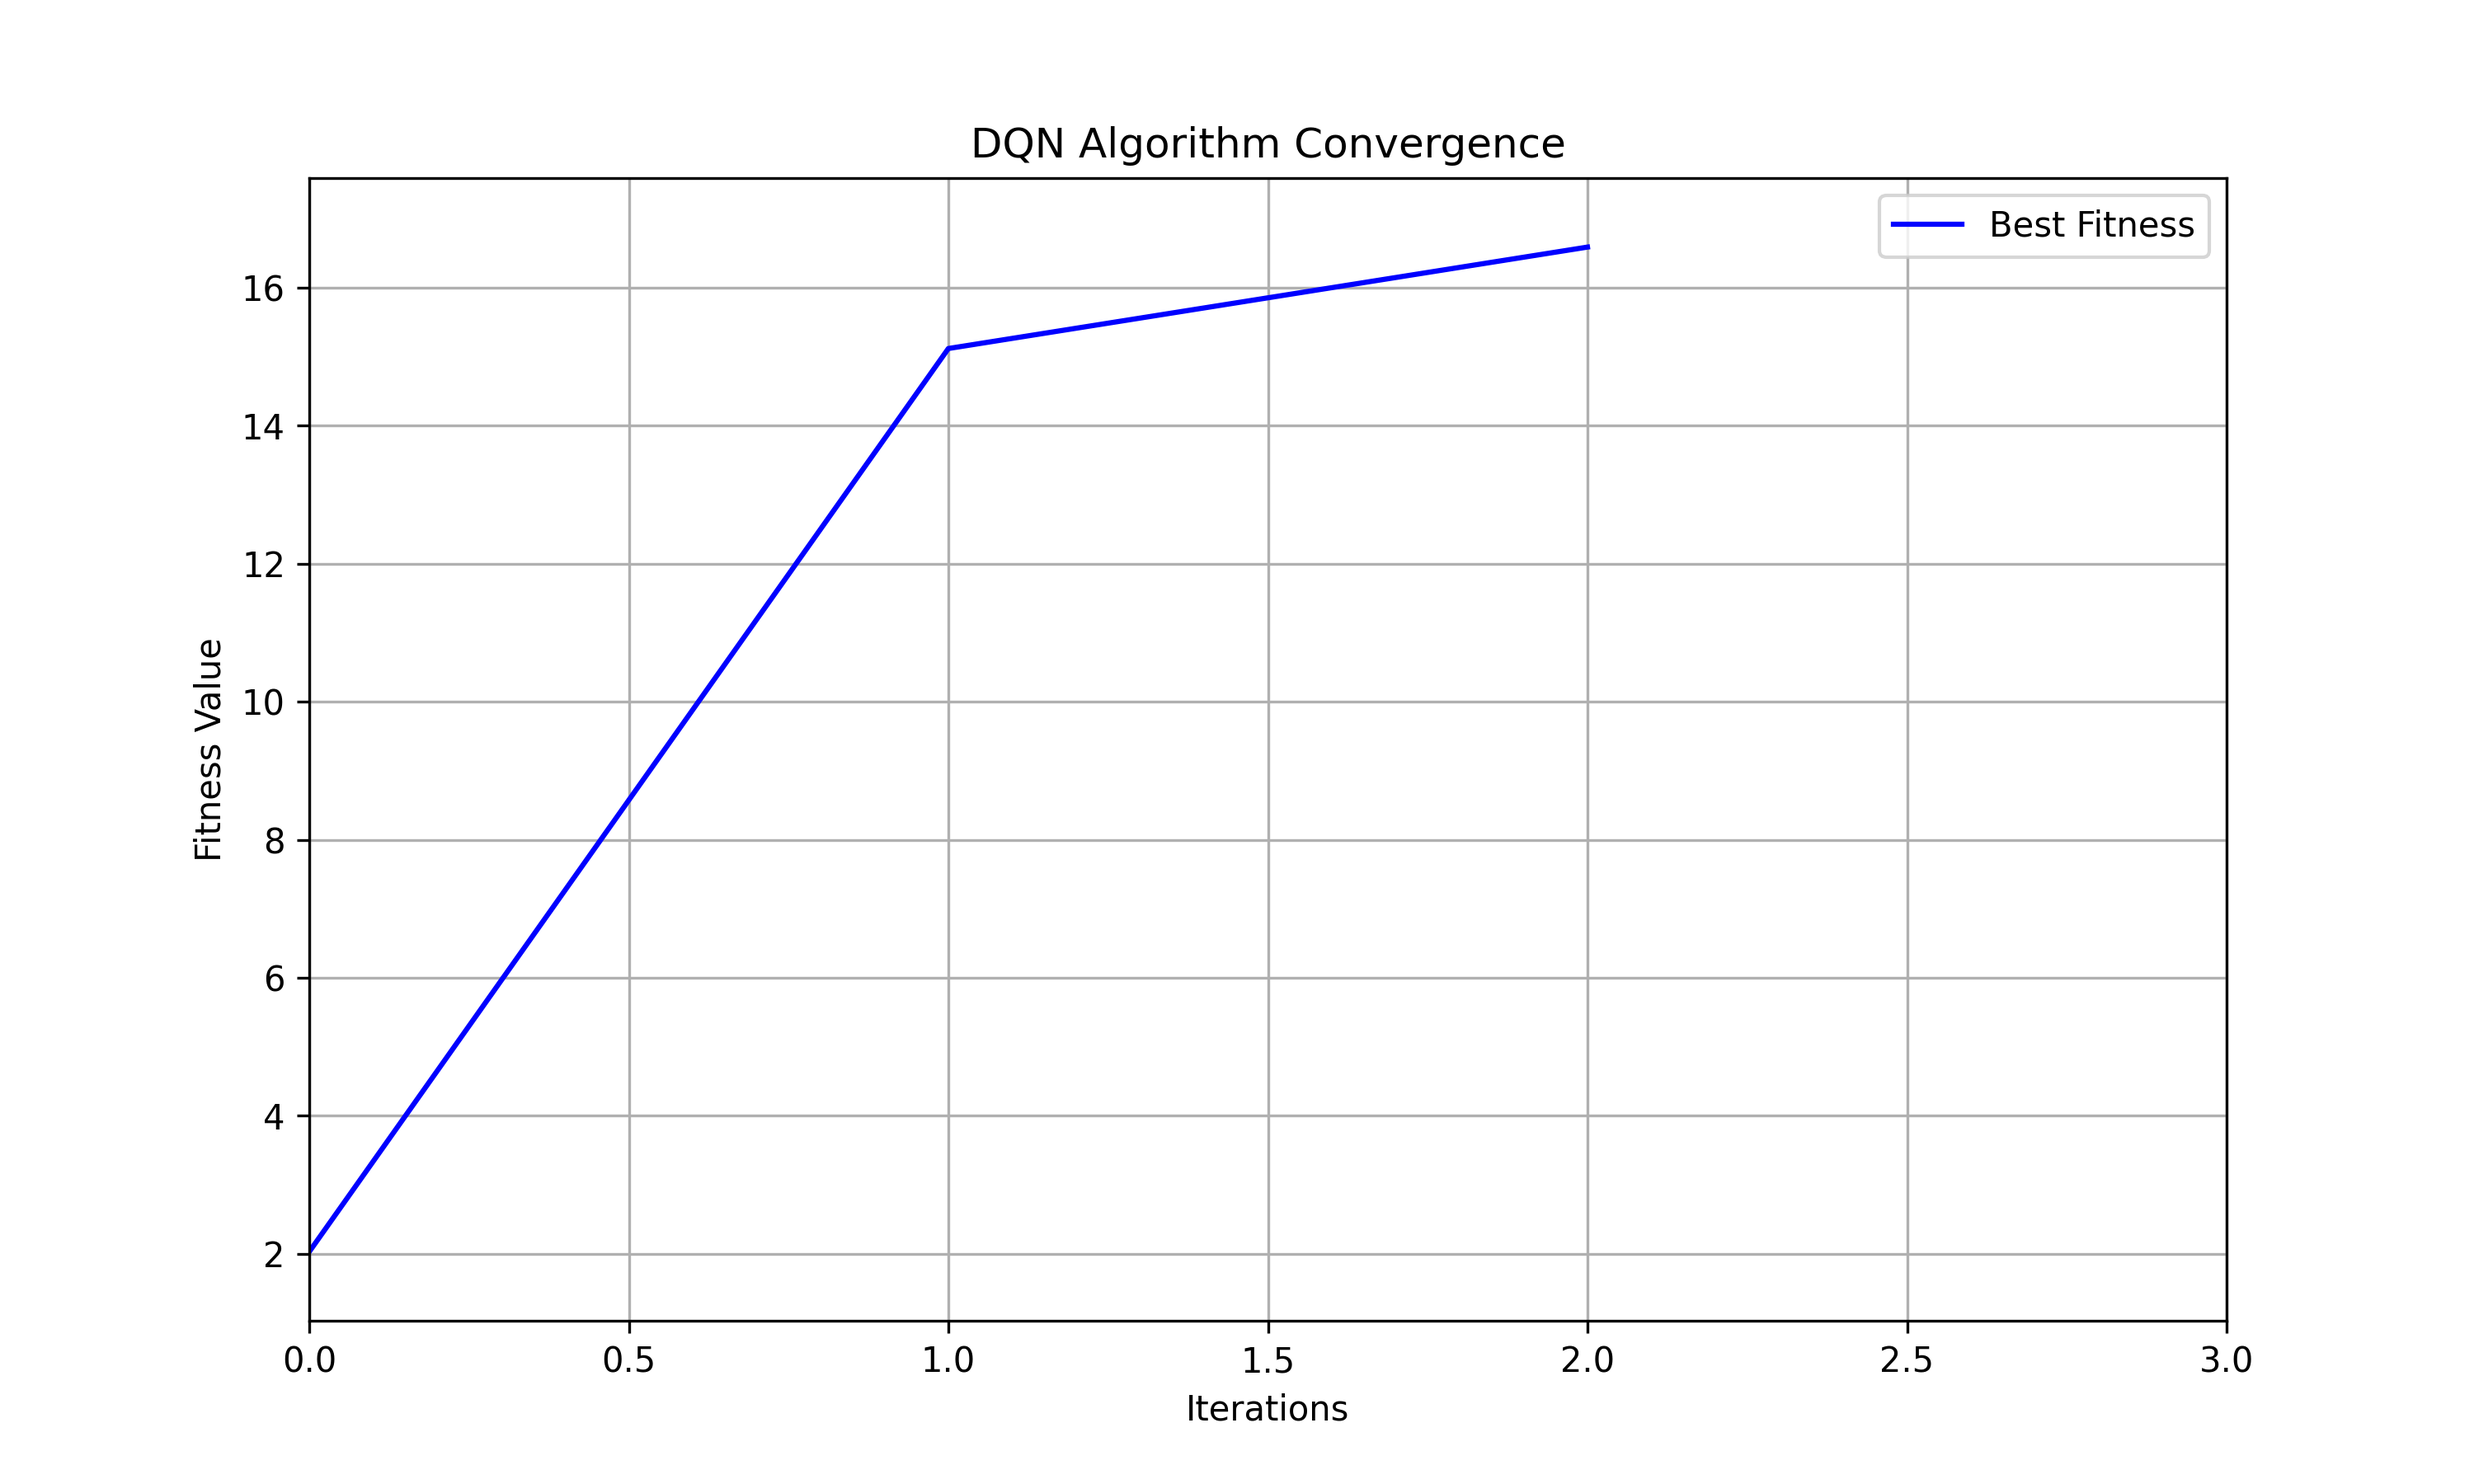
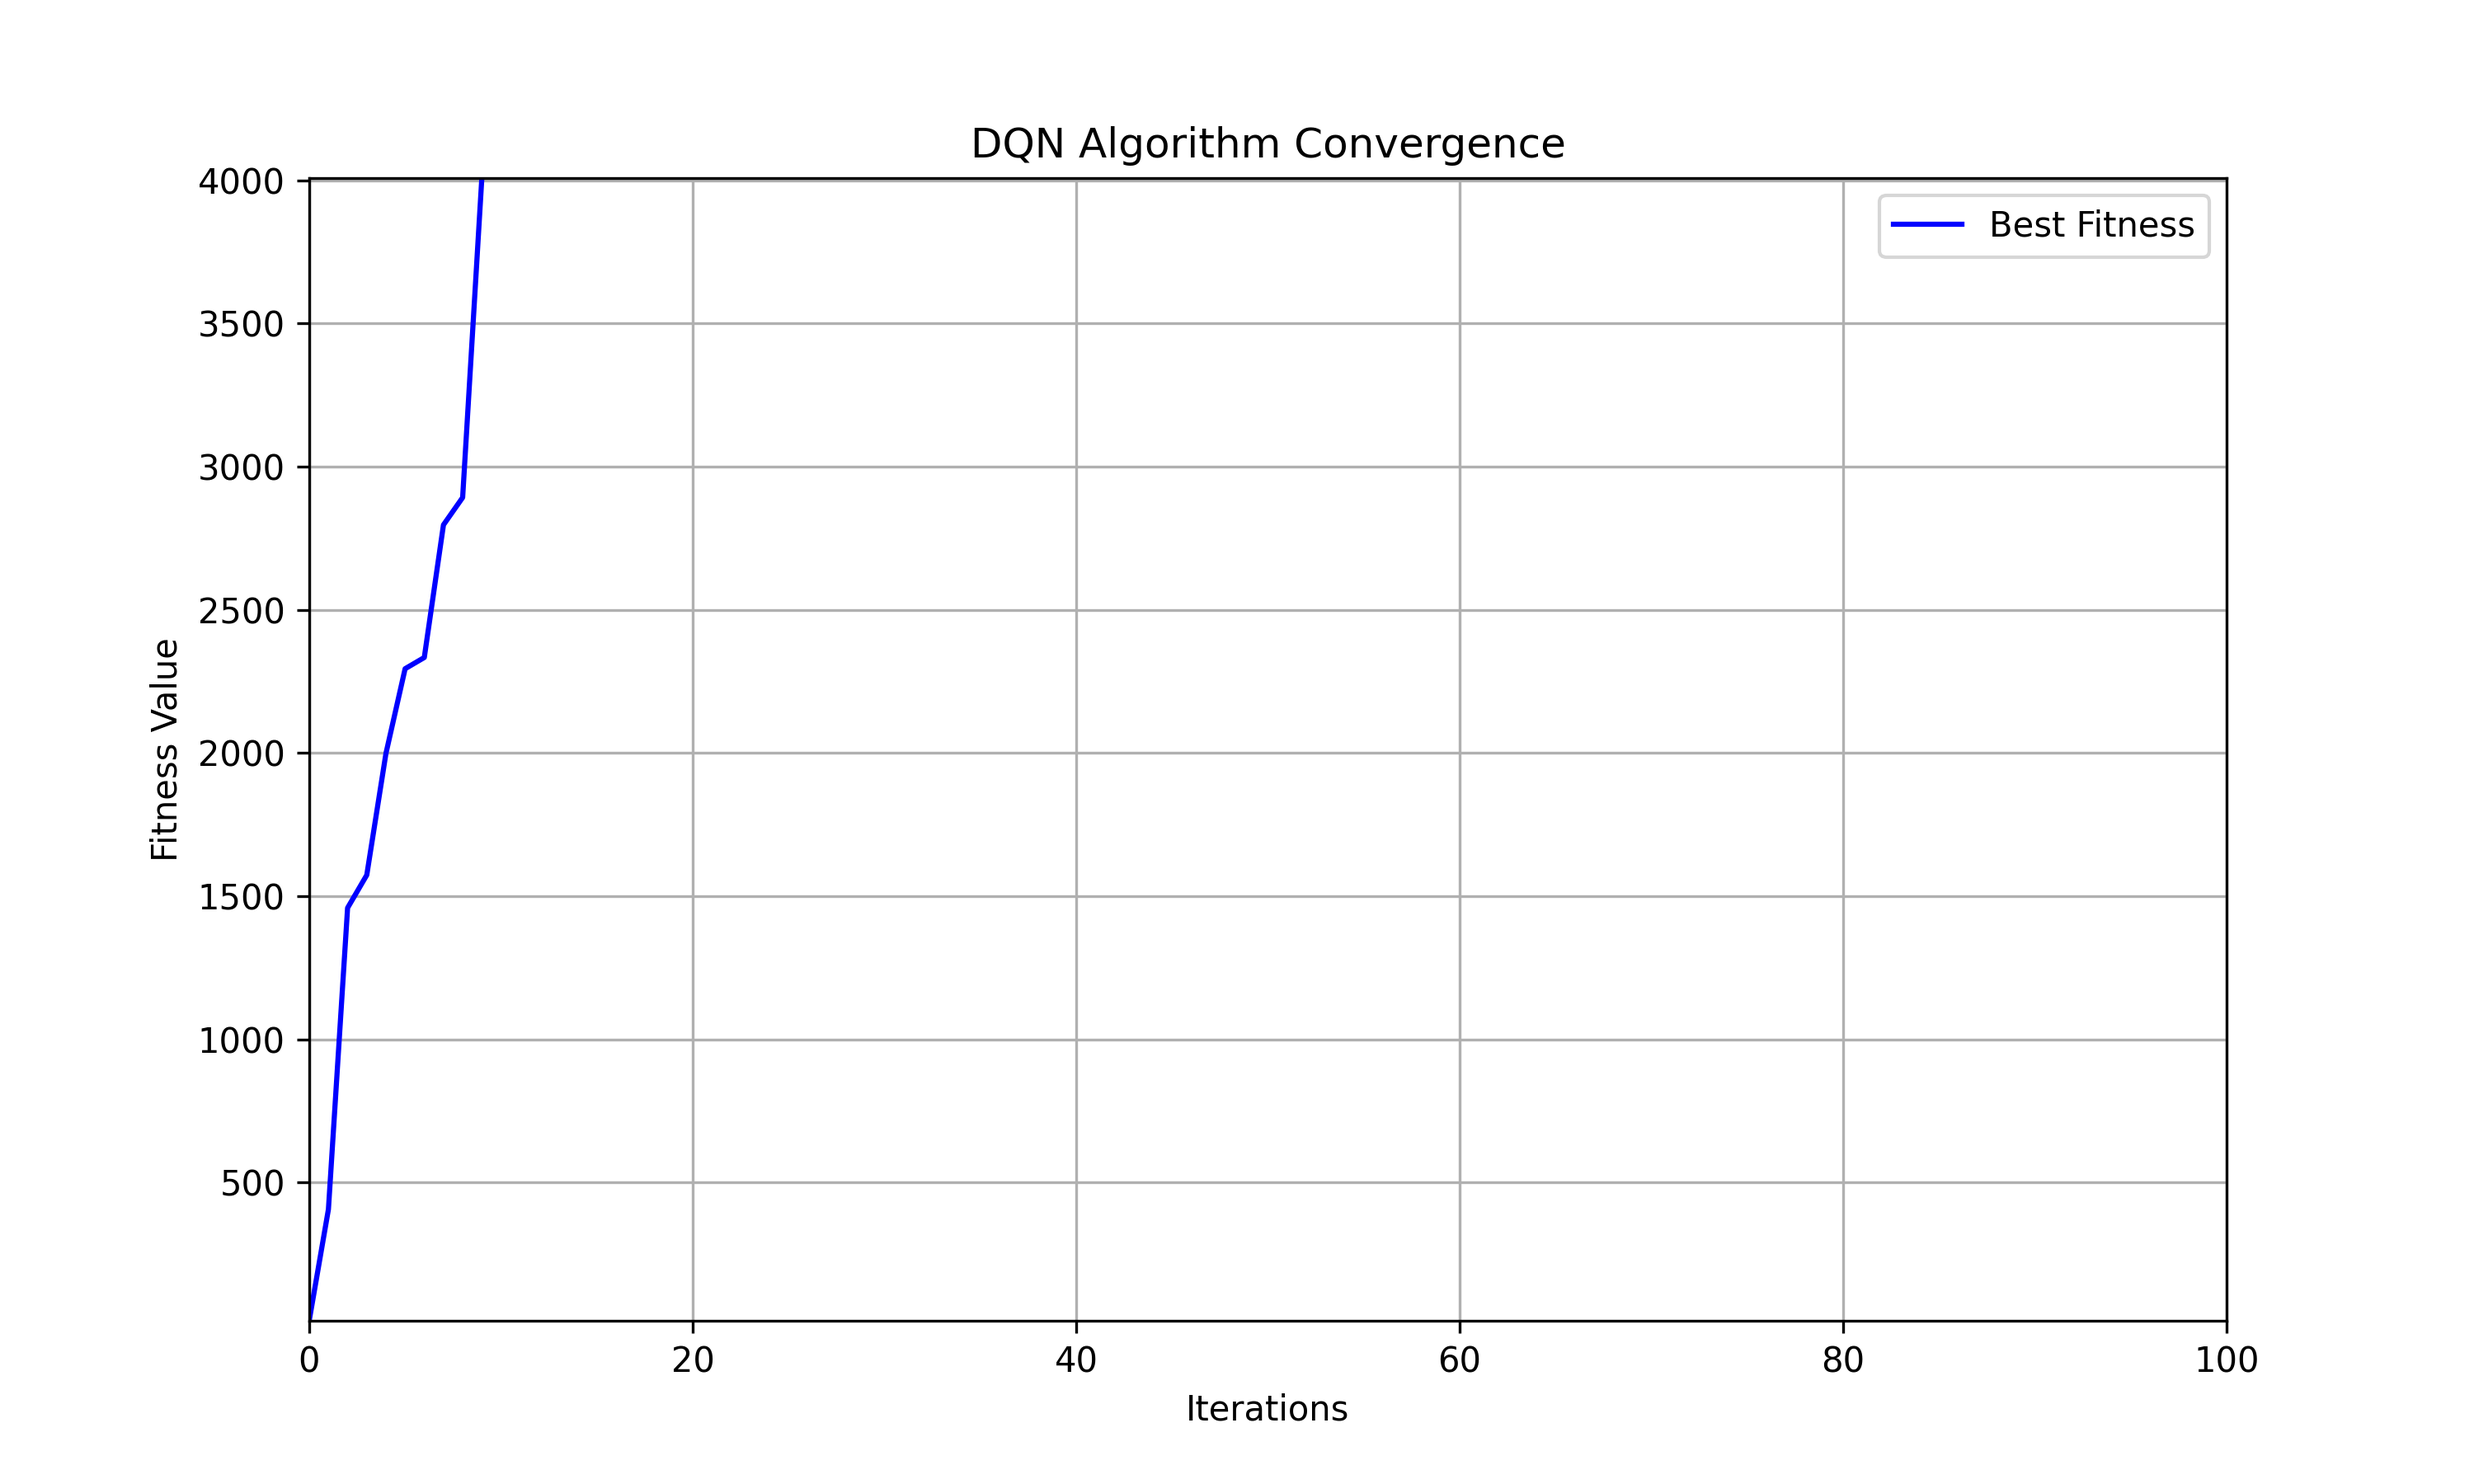
fix req

diff --git a/utility/reward_func.py b/utility/reward_func.py
@@ -10,9 +10,9 @@ from rich.console import Console
 from .calculate_returns import calculate_trading_signals
 
 console = Console()  # Initialize rich console
-device = torch.device("mps" if torch.cuda.is_available() else "cpu")
+device = torch.device("cuda" if torch.cuda.is_available() else "cpu")
 
-print(device)
+console.print(device)
 
 # Define the Q-network
 class QNetwork(nn.Module):
@@ -154,11 +154,14 @@ def dqn_algorithm(df_strategy, df_data, episodes, weights_range, x_range, signal
     state_size = len(signal_columns) + 2  # Include weights, buy_threshold, and sell_threshold
     action_size = state_size  # Each component of the state can be an action
     agent = DQNAgent(state_size, action_size)
-    batch_size = 64
+    batch_size = 128
     best_fitness = -float('inf')
     fitness_history = []
     best_trades_df = None
     best_bee = None
+    max_steps = 3000  # Example maximum steps per episode
+    best_reward = None
+    step_count = 0  # Initialize step count
 
 
     with Progress() as progress:
@@ -170,7 +173,8 @@ def dqn_algorithm(df_strategy, df_data, episodes, weights_range, x_range, signal
                                     [random.uniform(x_range[0], x_range[1]), random.uniform(x_range[0], x_range[1])]))
             done = False
             total_reward = 0
-            while not done:
+            step_count  = 0 
+            while not done and step_count < max_steps:
                 action = agent.act(state)
 
                 # Take the action: Modify the weights, buy_threshold, sell_threshold
@@ -195,20 +199,29 @@ def dqn_algorithm(df_strategy, df_data, episodes, weights_range, x_range, signal
 
                 if len(agent.memory) > batch_size:
                     agent.replay(batch_size)
+                
+                step_count += 1  # Increment step count
+                
+            if step_count >= max_steps:
+                print(f"[Warning] Episode {e + 1} exceeded maximum steps: {max_steps}. Total Reward: {total_reward:.4f}")
+
 
             # Log the best fitness
             if total_reward > best_fitness:
                 best_fitness = total_reward
+                best_reward = reward
                 best_bee = state
                 best_trades_df = current_trades_df
-                console.print(f"[bold green]Episode {e + 1}:[/bold green] Best Fitness: {best_fitness:.4f}")
+                console.print(f"[bold green]Episode {e + 1}:[/bold green] Best Fitness: {best_reward:.4f}")
                 fitness_history.append(best_fitness)
 
             progress.update(task, advance=1)
+            
+        
     
     plot_dqn_convergence(fitness_history, episodes)
     
     # ???
-    plot_metrics(agent)
+    # plot_metrics(agent)
 
     return best_bee, best_fitness, best_trades_df

diff --git a/main.py b/main.py
@@ -1,6 +1,7 @@
 import json
 import yfinance as yf
 from datetime import datetime
+from utility.abc_algorithm import abc_algorithm
 from utility.reward_func import  dqn_algorithm
 from utility.func import adjust_weights
 from utility.stock_plotter import plot_trades
@@ -33,8 +34,8 @@ def main():
     start_time = datetime.now()
 
 
-   # Execute ABC algorithm
-    # best_bee, best_fitness, best_trades_df = run_optimization(
+#    Execute ABC algorithm
+    # best_bee, best_fitness, best_trades_df = abc_algorithm(
     #     df_strategy,
     #     df_data, 
     #     Environment.CS, 
@@ -47,15 +48,19 @@ def main():
     #     # Environment.MAX_THREAD_WORKERS,
     # )    
     
-    dqn_algorithm(df_strategy, df_data, 6, Environment.weights_range,  Environment.x_range,signal_columns)
+    best_bee, best_fitness, best_trades_df =  dqn_algorithm(df_strategy, df_data, 
+                                                            Environment.MCN,
+                                                            Environment.weights_range,
+                                                            Environment.x_range,
+                                                            signal_columns)
     
-    # end_time = datetime.now()
-    # duration = end_time - start_time
+    end_time = datetime.now()
+    duration = end_time - start_time
 
-    # profit_ratio = (best_fitness + initial_price / best_fitness) 
-    
+    profit_ratio = (best_fitness + initial_price / best_fitness) 
+        
 
-    # display_results(best_bee, best_fitness, duration, profit_ratio, best_trades_df)
+    display_results(best_bee, best_fitness, duration, profit_ratio, best_trades_df)
         
     
     # results = {
@@ -70,7 +75,7 @@ def main():
     # with open('strategy_results.json', 'w') as json_file:
     #     json.dump(results, json_file, indent=4)
     
-    # plot_trades(df_data, best_trades_df, best_fitness, 1000, benchmark_df)
+    plot_trades(df_data, best_trades_df, best_fitness, 1000, benchmark_df)
 
     
 

diff --git a/utility/print.py b/utility/print.py
@@ -34,8 +34,9 @@ console = Console()
 
 def display_results(best_bee, best_fitness, time, profit_ratio, trades_df):
     # Formatting the best results
-    best_weights_str = ', '.join([f'{w:.2f}' for w in best_bee['weights']])
-    best_threshold_str = f"Sell Threshold: {best_bee['sell_threshold']:.2f}, Buy Threshold: {best_bee['buy_threshold']:.2f}"
+    # best_weights_str = ', '.join([f'{w:.2f}' for w in best_bee['weights']])
+    best_weights_str = ', '.join([f'{w:.2f}' for w in best_bee])
+    # best_threshold_str = f"Sell Threshold: {best_bee['sell_threshold']:.2f}, Buy Threshold: {best_bee['buy_threshold']:.2f}"
     best_return_str = f"{best_fitness:.0f} shares"
 
     # Calculate average and maximum holding times
@@ -83,7 +84,7 @@ def display_results(best_bee, best_fitness, time, profit_ratio, trades_df):
     # Add rows to the table
     table.add_row("Profit Ratio", f"[bold yellow]{profit_ratio:.2f}%[/bold yellow]")
     table.add_row("Best Weights", f"[bold green]{best_weights_str}[/bold green]")
-    table.add_row("Best Thresholds", f"[bold cyan]{best_threshold_str}[/bold cyan]")
+    # table.add_row("Best Thresholds", f"[bold cyan]{best_threshold_str}[/bold cyan]")
     table.add_row("Best Return", f"[bold yellow]{best_return_str}[/bold yellow]")
     table.add_row("Execution Time", f"[bold yellow]{time} seconds[/bold yellow]")
     table.add_row("Avg Holding Time", f"[bold yellow]{average_holding_time_days:.2f} days[/bold yellow]")

diff --git a/ENV.py b/ENV.py
@@ -14,7 +14,7 @@ class Environment(object):
     end_date = datetime(2024, 7, 19)
     
     CS=60          
-    MCN=1000        
+    MCN=500        
     limit=20
     weights_range = [0, 1, 2, 3, 4, 5]
     x_range = np.arange(0.05, 0.5, 0.05)
